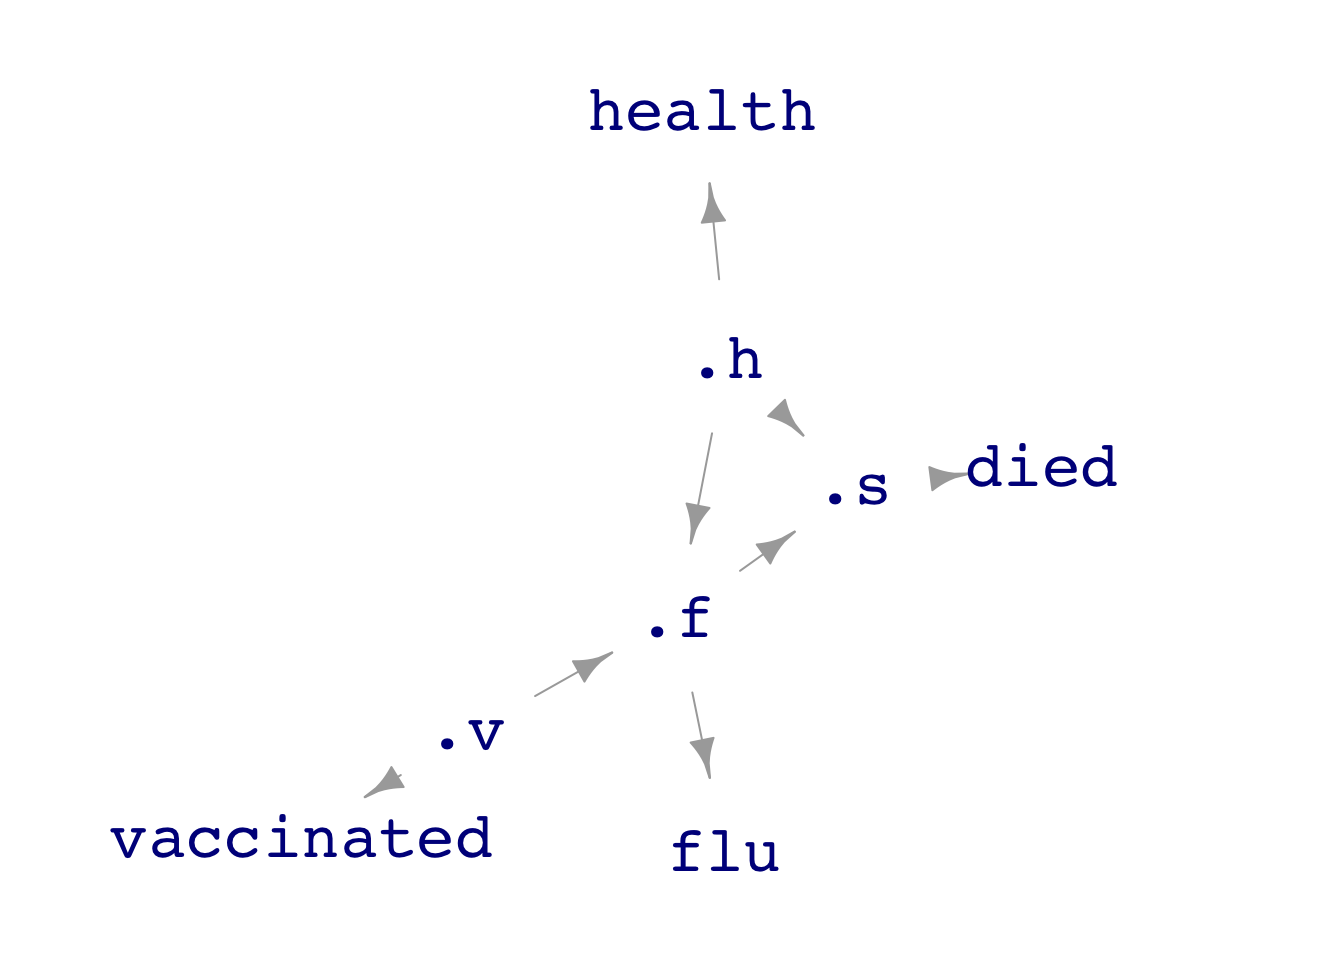
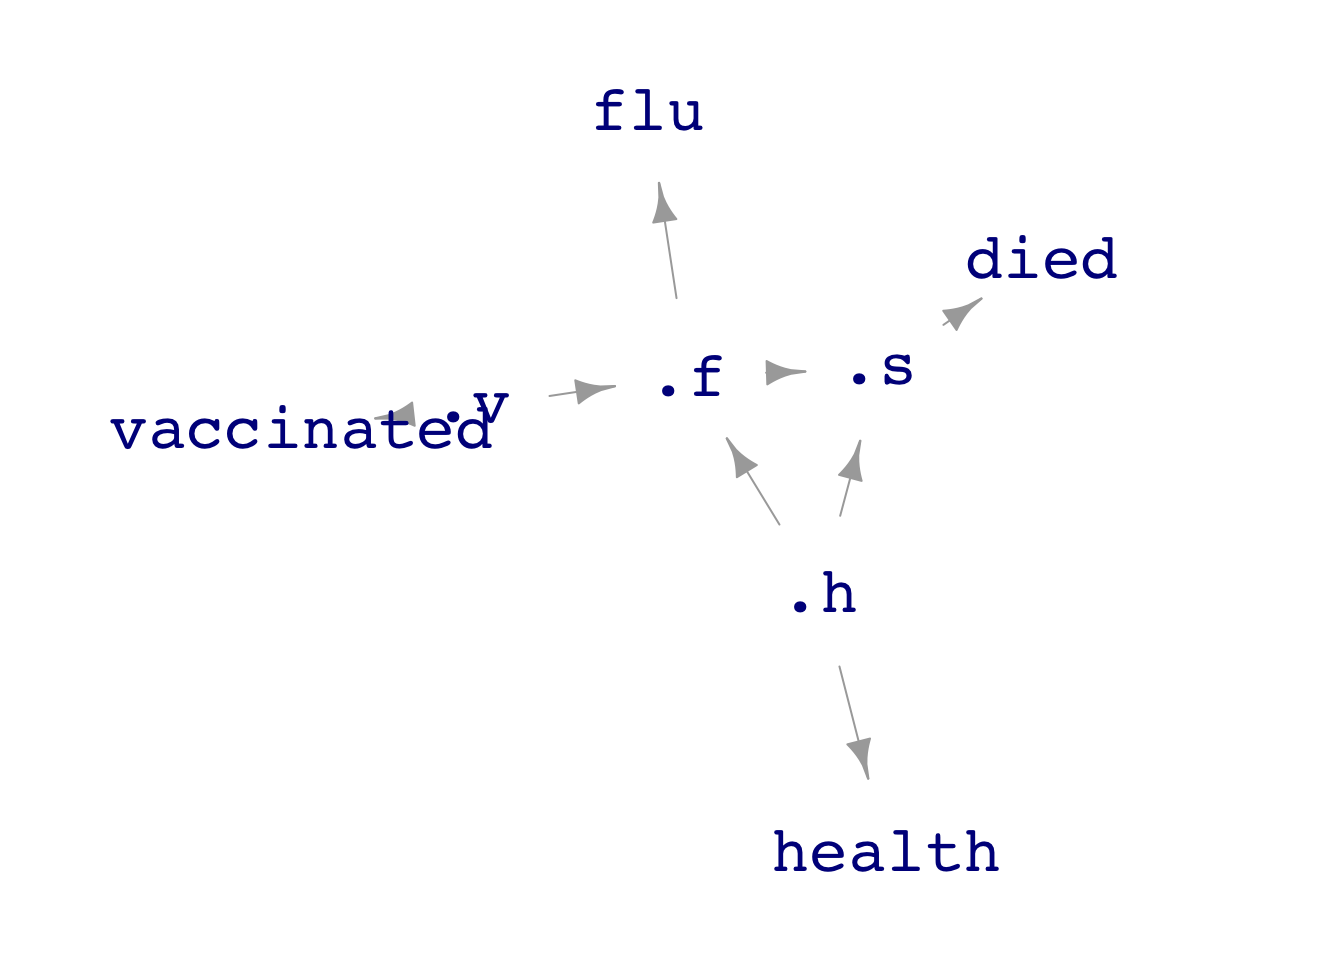
Vignettes and pkgdown front page (README.Rmd) written. Passes R CMD check cleanly. Some graphics bugs (finally!) ironed out.

diff --git a/README.md b/README.md
@@ -1,7 +1,7 @@
 
 <!-- README.md is generated from README.Rmd. Please edit that file -->
 
-# LST: *Lessons in Statistical Thinking*
+# {LST}: An R package for *Lessons in Statistical Thinking*
 
 <!-- badges: start -->
 <!-- badges: end -->
@@ -11,7 +11,8 @@ Statistical Thinking*.
 
 ## Installation
 
-You can install the development version of LST from
+We hope to have `{LST}` available on CRAN by early 2004. In the
+meanwhile, you can install the development version of LST from
 [GitHub](https://github.com/) with:
 
 ``` r
@@ -19,14 +20,157 @@ You can install the development version of LST from
 devtools::install_github("dtkaplan/LST")
 ```
 
-## Example
+## Overview
+
+The `{LST}` package has been developed to help students and instructors
+learn and teach statistics and early data science. `{LST}` supports the
+new textbook (still in draft) *Lessons in Statistical Thinking*, but
+instructors may want to use `{LST}` even with other textbooks.
+
+The statistics component of *Lessons* may fairly be called a radical
+innovation. As an [introductory, university-level
+course](https://dtkaplan.github.io/Math300blog/posts/StatChat-10-2023/),
+*Lessons* gives students access to important modern themes in statistics
+including modeling, simulation, co-variation, and causal inference. Data
+scientists, who use data to make genuine decisions, will get the tools
+they need. This includes a complete rethinking of statistical inference,
+starting with confidence intervals very early in the course, then gently
+introducing the structure of Bayesian inference. The coverage of
+hypothesis testing has greatly benefited from the discussions prompted
+by the American Statistical Association’s [*Statement on
+P-values*](https://www.amstat.org/asa/files/pdfs/p-valuestatement.pdf)
+and is approached in a way that, I hope, will be appreciated by all
+sides of the debate.
+
+The data-science part of the course includes the concepts and wrangling
+needed to undertake statistical investigations (not including data
+cleaning). It is based, as you might expect, on the tidyverse and
+`{dplyr}`.
+
+Some readers may be familiar with the `{mosaic}` suite of packages which
+provides, for many students and instructors, their first framework for
+statistical computation. But there have been many R developments since
+2011 when `{mosaic}` was introduced. These include pipes and the
+tidyverse style of referring to variables. `{mosaic}` has an uneasy
+equilibrium with the tidyverse. In contrast, the statistical functions
+in `{LST}` fit in with the tidyverse style and mesh well with `{dplyr}`
+commands.
+
+The `{LST}` function set is highly streamlined and internally
+consistent. There is a tight set of only four object types produced by
+the `{LST}` computations:
+
+- Data frames
+- Graphic frames (`{ggplot2}` compatible but much streamlined)
+- Models, which are summarized to produce either data frames or graphic
+  frames.
+- Data simulations (via DAGs) which are sampled from to produce data
+  frames
+
+Vignettes provide an instructor-level tutorial introduction to `{LST}`.
+The student-facing introduction is the *Lessons in Statistical Thinking*
+textbook.
+
+## Quick introduction
 
 ``` r
 library(LST)
-#> 
-#> Attaching package: 'LST'
-#> The following object is masked from 'package:base':
-#> 
-#>     sample
-## basic example code
 ```
+
+From the start of the course, students make data graphics designed to
+support modeling. The `pointplot()` function provides access to powerful
+graphics intended to develop statistical reasoning abilities but is very
+easy to use. For instance, using Francis Galton’s data from the 1880s,
+let’s look at a (fully-grown) child’s height as a function of his or her
+parents height. (This example moves faster than we do with students!)
+Relationships are clear when the data are annotated with a model.
+
+``` r
+Galton |>
+  pointplot(height ~ mother + father + sex, annot = "model")
+```
+
+<img src="man/figures/README-README6cfsz6-1.png" width="100%" />
+
+Quantitative modeling has the same syntax, but rather than rely on the
+default R reports for models, `{LST}` offers concise summaries.
+
+``` r
+Galton |> 
+  model_train(height ~ mother + father + sex) |>
+  conf_interval()
+#> # A tibble: 4 × 4
+#>   term         .lwr  .coef   .upr
+#>   <chr>       <dbl>  <dbl>  <dbl>
+#> 1 (Intercept) 9.95  15.3   20.7  
+#> 2 mother      0.260  0.321  0.383
+#> 3 father      0.349  0.406  0.463
+#> 4 sexM        4.94   5.23   5.51
+```
+
+To develop an appreciation of the importance of covariates, we can turn
+to data-generating simulations where we know the rules behind the data
+and can check whether modeling reveals them faithfully.
+
+``` r
+print(sim_08)
+#> Simulation object
+#> ------------
+#> [1] c <- rnorm(n)
+#> [2] x <- c + rnorm(n)
+#> [3] y <- x + c + 3 + rnorm(n)
+dag_draw(sim_08)
+```
+
+<img src="man/figures/README-unnamed-chunk-2-1.png" width="100%" />
+
+From the rules, we can see that `y` increases directly with `x`, the
+coefficient being 1. A simple model gets this wrong:
+
+``` r
+sim_08 |> 
+  sample(n = 100) |>
+  model_train(y ~ x) |>
+  conf_interval()
+#> # A tibble: 2 × 4
+#>   term         .lwr .coef  .upr
+#>   <chr>       <dbl> <dbl> <dbl>
+#> 1 (Intercept)  2.74  2.98  3.22
+#> 2 x            1.30  1.45  1.60
+```
+
+I’ll leave it as an exercise to the reader to see what happens when `c`
+is included in the model as a covariate.
+
+Finally, an advanced example that’s used as a demonstration but
+illustrates the flexibility of unifying modeling, simulation, and
+wrangling. We’ll calculate the width of the `x` confidence interval as a
+function of the sample size `n` and averaging over 100 trials.
+
+``` r
+sim_08 |> 
+  sample(n = n) |>
+  model_train(y ~ x) |>
+  conf_interval() |>
+  trials(times = 2, n = c(100, 400, 1600)) |> 
+  filter(term == "x") |> 
+  mutate(width = .upr - .lwr)
+#>   .trial    n term     .lwr    .coef     .upr      width
+#> 1      1  100    x 1.521538 1.717093 1.912649 0.39111092
+#> 2      2  100    x 1.234374 1.417474 1.600574 0.36620068
+#> 3      1  400    x 1.390188 1.478836 1.567485 0.17729708
+#> 4      2  400    x 1.519035 1.603670 1.688305 0.16926959
+#> 5      1 1600    x 1.430024 1.472944 1.515865 0.08584056
+#> 6      2 1600    x 1.436323 1.478510 1.520697 0.08437371
+```
+
+I’ve used only two trials to show the output of `trials()`, but increase
+it to, say, `times = 100` and finish off the wrangling with the
+`{dplyr}` function `summarize(mean(width), .by = n)`.
+
+    #>       n mean(width)
+    #> 1   100  0.35343367
+    #> 2   400  0.17076383
+    #> 3  1600  0.08503046
+    #> 4  6400  0.04251642
+    #> 5 25600  0.02119462
